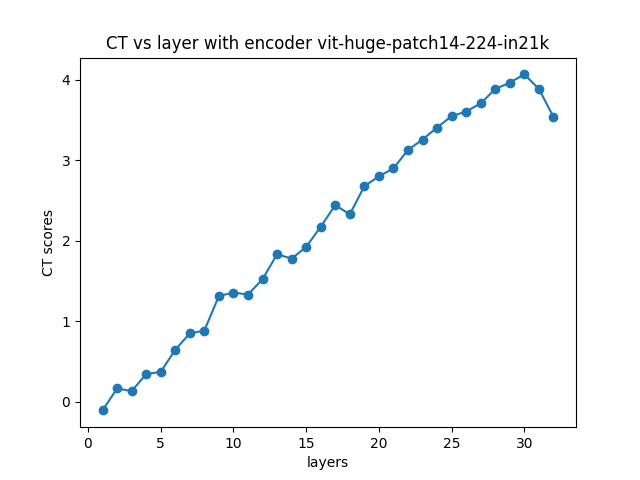
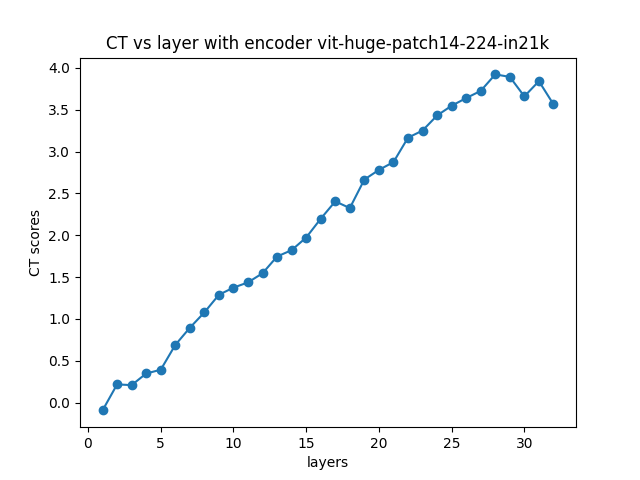
plot

diff --git a/ct_cnn.py b/ct_cnn.py
@@ -15,17 +15,17 @@ from tqdm.auto import tqdm
 from collections import OrderedDict
 import torchvision.transforms as T
 import timm
-import convolution_autoencoder_pyramid_reconstruction as cpr
-import convolution_autoencoder_isotropic_reconstruction as cir
-import convolution_autoencoder_pyramid_classification as cpc
-import convolution_autoencoder_pyramid_classification_moreiso as cpcm
-import convolution_autoencoder_pyramid_classification_noiso as cpcn
-import convolution_autoencoder_isotropic_classification as cic
+# import convolution_autoencoder_pyramid_reconstruction as cpr
+# import convolution_autoencoder_isotropic_reconstruction as cir
+# import convolution_autoencoder_pyramid_classification as cpc
+# import convolution_autoencoder_pyramid_classification_moreiso as cpcm
+# import convolution_autoencoder_pyramid_classification_noiso as cpcn
+# import convolution_autoencoder_isotropic_classification as cic
 
 dataset = load_dataset("cifar10")
 
-#model_name = "Inception_V3"
-model_name = "isotropic_classification"
+model_name = "Inception_V3"
+#model_name = "isotropic_classification"
 generated_data_source = "GAN500"
 for generated_data_source in ["GAN500", "GAN10000", "DDPM500"]:
     if generated_data_source == "GAN500":
@@ -59,24 +59,25 @@ for generated_data_source in ["GAN500", "GAN10000", "DDPM500"]:
         def forward(self, x):
             self.outputs = []  # Clear the output list
             return self.model(x)
-    '''
+
     model = HookedModel(
         timm.create_model(
-            #'inception_v3',
-            'vgg16',
+            'inception_v3',
+            #'vgg16',
             pretrained=True,
             num_classes=0,  # remove classifier nn.Linear
         ),
         
-        #layer_names=["Conv2d_1a_3x3", "Conv2d_2a_3x3", "Conv2d_2b_3x3" , "Pool1", "Conv2d_3b_1x1", "Conv2d_4a_3x3", "Pool2", "Mixed_5b", "Mixed_5b.branch_pool" "Mixed_5c", "Mixed_5c.branch_pool", "Mixed_5d", "Mixed_5d.branch_pool", "Mixed_6a", "Mixed_6b", "Mixed_6b.branch_pool", "Mixed_6c", "Mixed_6c.branch_pool", "Mixed_6d", "Mixed_6d.branch_pool", "Mixed_6e", "Mixed_6e.branch_pool", "Mixed_7a", "Mixed_7b", "Mixed_7b.branch_pool", "Mixed_7c", "Mixed_7c.branch_pool", "global_pool"]
-        layer_names = ["features", "features.0", "features.5", "features.10", "features.15", "features.20", "features.25", "features.30", "pre_logits", "head", "head.global_pool", "head.fc"]
+        layer_names=["Conv2d_1a_3x3", "Conv2d_2a_3x3", "Conv2d_2b_3x3" , "Pool1", "Conv2d_3b_1x1", "Conv2d_4a_3x3", "Pool2", "Mixed_5b", "Mixed_5b.branch_pool" "Mixed_5c", "Mixed_5c.branch_pool", "Mixed_5d", "Mixed_5d.branch_pool", "Mixed_6a", "Mixed_6b", "Mixed_6b.branch_pool", "Mixed_6c", "Mixed_6c.branch_pool", "Mixed_6d", "Mixed_6d.branch_pool", "Mixed_6e", "Mixed_6e.branch_pool", "Mixed_7a", "Mixed_7b", "Mixed_7b.branch_pool", "Mixed_7c", "Mixed_7c.branch_pool", "global_pool"]
+        #layer_names = ["features", "features.0", "features.5", "features.10", "features.15", "features.20", "features.25", "features.30", "pre_logits", "head", "head.global_pool", "head.fc"]
     )
-    '''
 
+    '''
     model = HookedModel(
         model = cic.ClassificationModel(10),
         layer_names = []
     )
+    
 
     if os.path.isfile(f"autoencoders/{model_name}/autoencoder_model_200.pth"):
         checkpoint = torch.load(f"autoencoders/{model_name}/autoencoder_model_200.pth")
@@ -85,7 +86,7 @@ for generated_data_source in ["GAN500", "GAN10000", "DDPM500"]:
             new_state_dict[new_key] = checkpoint['model_state_dict'][old_key]
         model.model.load_state_dict(new_state_dict)
         print(f"autoencoders/{model_name}/autoencoder_model_200.pth loaded")
-
+    '''
     #for name, layer in model.named_modules():
     #    print(name)
     model = model.eval()
@@ -103,6 +104,8 @@ for generated_data_source in ["GAN500", "GAN10000", "DDPM500"]:
 
     # get model specific transforms (normalization, resize)
     transform = T.Compose([
+        T.Resize(299),  
+        T.CenterCrop(299),
         T.ToTensor(),
         T.Normalize(mean=[0.5, 0.5, 0.5], std=[0.5, 0.5, 0.5])
     ])

diff --git a/plot/GAN500CTScore_plot.py b/plot/GAN500CTScore_plot.py
@@ -1,0 +1,32 @@
+#plot three graph horizontally
+import matplotlib.pyplot as plt
+import numpy as np
+
+base = [-0.4541984574163905, 0.7327393297363205, 1.1574292804159465, 1.3571785973469483, 1.5258974129350564, 1.6960392909299065, 1.8921369814219948, 2.022168171852389, 2.4109196539685938, 2.4385116848364166, 3.2893466359798116, 2.596752702279013]
+large = [-0.18645754807140433, 0.22446443925796153, 0.7690762786664808, 0.3820744990366485, 0.839237333090921, 0.9327303041967717, 0.9758202682714697, 1.4639870335825058, 1.4271115702973884, 2.1363992003373222, 2.7575905399235494, 2.6892745756649217, 2.9841681237428404, 3.2118909352911578, 3.8332756729914257, 3.898959668642179, 4.519189978069703, 4.906423386684316, 5.5936088935612895, 5.177961336824812, 5.775661844661665, 5.86048077142219, 6.211211816483271, 5.478716187960471]
+huge = [-0.09209149604105499, 0.21861133479727496, 0.20992107012749936, 0.3488348808373233, 0.39367359772224153, 0.6895282294289073, 0.894964474616142, 1.078597677803062, 1.2895070414760414, 1.3745254715049176, 1.437271096672117, 1.54627167799116, 1.7465038659108922, 1.8225313176051139, 1.9732308531152407, 2.197762465964656, 2.4053871367386988, 2.3252537028187588, 2.6661905713684027, 2.7812639486780424, 2.8741628035168687, 3.1662163054956975, 3.251113803421962, 3.4314488068226585, 3.5479526397901635, 3.6393714635333896, 3.725332283839865, 3.9223054011006737, 3.8926120788404805, 3.6597445858160516, 3.8413461853344075, 3.565220438773622]
+
+x1 = np.arange(1, len(base)+1)
+plt.figure(figsize=(15, 5))
+plt.subplot(131)
+plt.plot(x1, base, 'o-', label='base')
+plt.ylabel("CT scores")
+plt.xlabel("layers")
+plt.title(f"Encoder ViT Base")
+plt.legend()
+plt.grid(True)
+plt.subplot(132)
+x2 = np.arange(1, len(large)+1)
+plt.plot(x2, large, 'o-', label='large')
+plt.xlabel("layers")
+plt.title(f"Encoder ViT Large")
+plt.legend()
+plt.grid(True)
+plt.subplot(133)
+x3 = np.arange(1, len(huge)+1)
+plt.plot(x3, huge, 'o-', label='huge')
+plt.xlabel("layers")
+plt.title(f"Encoder ViT Huge")
+plt.legend()
+plt.grid(True)
+plt.show()

diff --git a/plot/ddpm500CTScore_plot.py b/plot/ddpm500CTScore_plot.py
@@ -1,0 +1,32 @@
+#plot three graph horizontally
+import matplotlib.pyplot as plt
+import numpy as np
+
+base = [0.05568537276804201, 0.47060262256147756, 0.6200731305869717, 1.2195481228049412, 1.446922540525044, 2.134579256907558, 2.445267332193095, 2.766128607074872, 2.869793654980789, 2.6733869705688535, 3.4533046586795733, 5.252303515494577]
+large = [-0.09188400202482075, 0.351322743581023, 0.6764645384843107, 0.6823897509669301, 0.975150408940579, 1.4185208700254017, 1.3826190832426835, 2.139957740321653, 2.562687333402198, 2.8518799977881013, 3.3005718905108545, 3.3664133473355644, 3.641754695942062, 3.956389121567973, 4.427926958271497, 5.303377445935107, 5.531283559179288, 5.677250075180822, 5.805042533422535, 6.285612780173508, 5.976672281804931, 7.320103381827453, 7.091305073874851, 6.658014100219779]
+huge = [0.05367173040559203, -0.14594588196205063, 0.07304441683679257, 0.5666530587761641, 0.49325518098360144, 0.020171569020614243, 0.21597408837730697, 0.14045560455856693, 0.3138034549035001, 0.06549909475882204, 0.26079777193095666, 0.8160633931926059, 0.9217323403098306, 1.4826101712463329, 1.6918666784725267, 2.178056400145805, 2.4224775277498622, 2.691789165652215, 3.4246597242110264, 3.498146660623796, 3.6708145070750793, 3.8758498174368246, 3.960370944368538, 4.445900279859949, 4.277828303434407, 4.3005770701929205, 4.529351623539765, 4.533748543039512, 4.972758231262492, 4.975902885547134, 5.204402071408192, 5.556893491468963]
+
+x1 = np.arange(1, len(base)+1)
+plt.figure(figsize=(15, 5))
+plt.subplot(131)
+plt.plot(x1, base, 'o-', label='base')
+plt.ylabel("CT scores")
+plt.xlabel("layers")
+plt.title(f"Encoder ViT Base")
+plt.legend()
+plt.grid(True)
+plt.subplot(132)
+x2 = np.arange(1, len(large)+1)
+plt.plot(x2, large, 'o-', label='large')
+plt.xlabel("layers")
+plt.title(f"Encoder ViT Large")
+plt.legend()
+plt.grid(True)
+plt.subplot(133)
+x3 = np.arange(1, len(huge)+1)
+plt.plot(x3, huge, 'o-', label='huge')
+plt.xlabel("layers")
+plt.title(f"Encoder ViT Huge")
+plt.legend()
+plt.grid(True)
+plt.show()

diff --git a/ct.py b/ct.py
@@ -26,7 +26,7 @@ args = parser.parse_args()
 default_paths = {
     "GAN500": r"/home/jackhe/LayerChoice/GAN_images/500",
     "GAN10000": r"/home/jackhe/LayerChoice/GAN_images/10000",
-    "DDPM": r"/home/jackhe/LayerChoice/ddpm_images/ddpm",
+    "DDPM": r"/home/jackhe/LayerChoice/ddpm_images/ddpm1",
     "rotated": r"/home/jackhe/LayerChoice/processed_cifar10/rotated",
     "noisy": r"/home/jackhe/LayerChoice/processed_cifar10/noisy",
     "downsampled": r"/home/jackhe/LayerChoice/processed_cifar10/downsampled",
@@ -66,7 +66,7 @@ os.makedirs(save_path, exist_ok=True)
 #model_ckpt = "thapasushil/vit-base-cifar10"
 
 #model_ckpt = "Zetatech/pvt-tiny-224"
-ckpt_list = ["google/vit-base-patch16-224-in21k"]
+ckpt_list = ["google/vit-base-patch16-224-in21k", "google/vit-large-patch16-224-in21k", "google/vit-huge-patch14-224-in21k"]
 for model_ckpt in tqdm(ckpt_list):
     model_name = model_ckpt.split('/')[-1]
     print(model_name)
@@ -176,7 +176,8 @@ for model_ckpt in tqdm(ckpt_list):
             T = embeddings_train_layer.astype('float')
 
         #convert to 64 embeddings
-            n_components=min(T.shape[0], T.shape[1],64)
+            print(T.shape)
+            n_components=min(T.shape[0],T.shape[1],64)
             pca = PCA(n_components)
             pca.fit(T)
             Pn_projected = pca.transform(Pn)
@@ -237,6 +238,6 @@ for model_ckpt in tqdm(ckpt_list):
             layers[layer_index].append(output)
     scores = plot_for_multiple_paths(layers, all_candidate_embeddings_train, all_candidate_embeddings_test)
     if args.save:
-        with open("model_ct_scores.txt", "a") as f:
+        with open("plot.txt", "a") as f:
             f.write(f"{generated_data_source} {scores[1:]}\n")
     print("CT scores ", scores)

diff --git a/cosine_similarity.py b/cosine_similarity.py
@@ -12,7 +12,7 @@ import os
 #dataset = load_from_disk("processed_cifar10/noisy_dataset")
 #dataset = load_from_disk("processed_cifar10/rotated_dataset")
 
-dataset = load_dataset("cifar10")
+dataset = load_dataset("cifar10")['train']
 model_ckpt = "google/vit-base-patch16-224-in21k"
 #model_ckpt = "google/vit-large-patch16-224-in21k"
 #model_ckpt = "google/vit-huge-patch14-224-in21k"
@@ -21,12 +21,12 @@ model_ckpt = "google/vit-base-patch16-224-in21k"
 extractor = AutoFeatureExtractor.from_pretrained(model_ckpt)
 model = AutoModel.from_pretrained(model_ckpt)
 
-# labels = dataset["label"]
-# label2id, id2label = dict(), dict()
+labels = dataset["label"]
+label2id, id2label = dict(), dict()
 
-# for i, label in enumerate(labels):
-#     label2id[label] = i
-#     id2label[i] = label
+for i, label in enumerate(labels):
+    label2id[label] = i
+    id2label[i] = label
 
 import torchvision.transforms as T
 

diff --git a/fingerprint_baseline.py b/fingerprint_baseline.py
@@ -27,7 +27,7 @@ def calculate_distance(mean1, std1, fid1, mean2, std2, fid2):
         fid_distance = np.linalg.norm(fid1 - fid2)
     else:
         fid_distance = 0
-    return mean_distance + std_distance + fid_distance  # Combine distances for simplicity
+    return fid_distance  # Combine distances for simplicity
 
 def cosine_similarity(vec1, vec2):
     dot_product = np.dot(vec1.flatten(), vec2.flatten())
@@ -45,7 +45,7 @@ def combined_metric(cosine_sim, l2_dist, alpha):
     # Combine the two metrics
     return alpha * cosine_sim + (1 - alpha) * l2_similarity
 
-def compute_accuracy(generated_folders, modelArch, stats_file=None, alpha=0.1):
+def compute_accuracy(generated_folders, modelArch, stats_file=None, alpha=0):
     stats = {}
     if stats_file:
         stats = load_statistics_from_file(stats_file)

diff --git a/fingerprint.py b/fingerprint.py
@@ -76,7 +76,7 @@ def find_closest_score_name(file_path, new_score, alpha=0.5):
             closest_score_name = model_name
     return closest_score_name
 
-def compute_accuracy(file_path, alpha=0.5):
+def compute_accuracy(file_path, alpha=1):
     """Compute the overall accuracy by setting each item as a target in turns."""
     scores = parse_data(file_path)
     correct_identifications = 0
